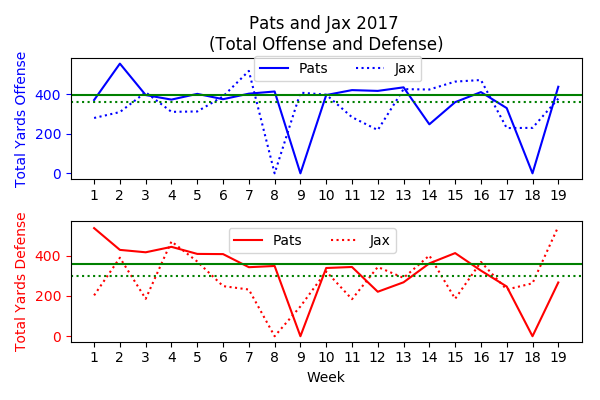
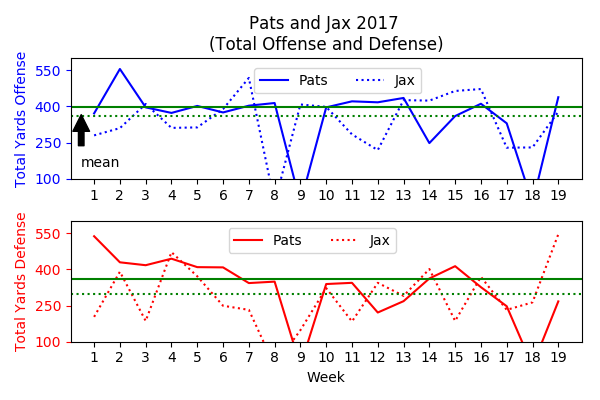
Added mean line

diff --git a/20170116/pats_v_jax.py b/20170116/pats_v_jax.py
@@ -36,7 +36,12 @@ ax1.axhline(y=int(pats.replace(0,np.NaN)[['TotYdO']].mean()), color='g', linesty
 ax1.axhline(y=int(jax.replace(0,np.NaN)[['TotYdO']].mean()), color='g', linestyle=':')
 ax1.tick_params('y', colors='b')
 ax1.set_xticks(xvals)
-ax1.legend(bbox_to_anchor=(.7, .75), ncol=2)
+ax1.set_yticks(range(100, 600, 150))
+ax1.set_ylim(100, 600)
+ax1.legend(bbox_to_anchor=(.7, .65), ncol=2)
+ax1.annotate('mean', xy=(.5, int(pats.replace(0,np.NaN)[['TotYdO']].mean()) ), 
+            xytext=(.5, 150),
+            arrowprops=dict(facecolor='black', shrink=0.15))
 
 # define axis 2
 ax2.plot(pats[['Week']], pats[['TotYdD']], 'r-', label='Pats')
@@ -47,7 +52,9 @@ ax2.tick_params('y', colors='r')
 ax2.set_ylabel('Total Yards Defense', color='r')
 ax2.legend(bbox_to_anchor=(.65, 1), ncol=2)
 ax2.set_xticks(xvals)
-ax2.set_ylabel('Week')
+ax2.set_yticks(range(100, 600, 150))
+ax2.set_ylim(100, 600)
+ax2.set_xlabel('Week')
 
 plt.tight_layout()
 now = datetime.datetime.now()

diff --git a/README.md b/README.md
@@ -1,1 +1,2 @@
 # DailyChallenge
+Python Daily Visualization Challenge
